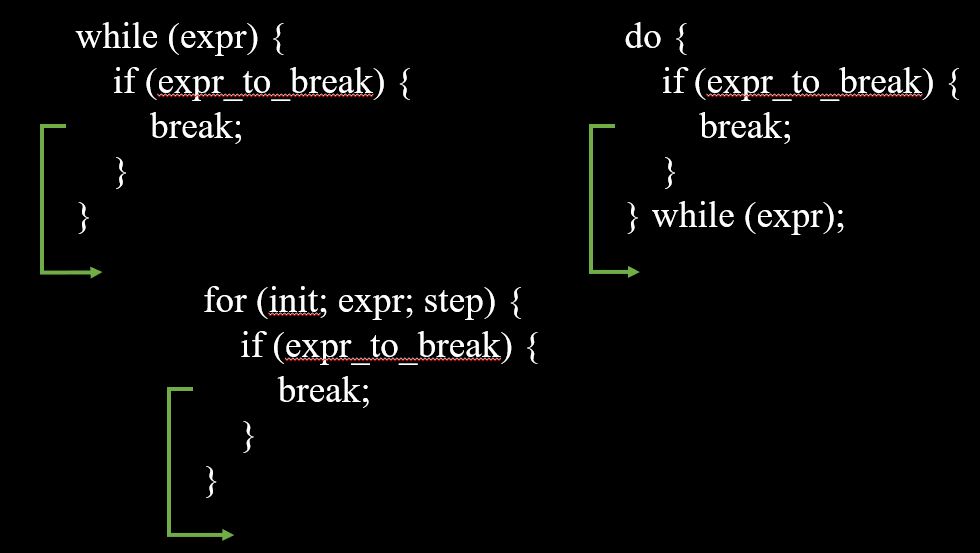
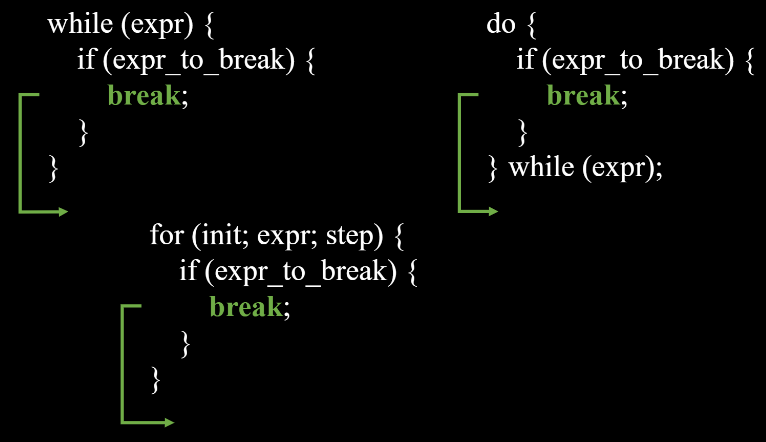
Added break/continue pngs

diff --git a/2_loops/lecture.md b/2_loops/lecture.md
@@ -20,15 +20,15 @@
 
 # Loops
 
-Циклы (loops) позволяют выполнять инструкцию столько раз сколько попросим     
+**Циклы (loops)**
+- Позволяют выполнять инструкцию столько раз сколько попросим         
+- Сокращают количество кода (Делают код более читаемым)         
 
 <img src="img/intro.png" width="500"/>               
 
 ##  1. <a name='1'></a>Loops
 
-Циклы позволяют сократить количество кода и время на программирование, а также делают код более читаемым         
 В программирование обычно можно встретить циклы **for** и **while**. В языке Си помимо них еще есть **do/while**                  
-
 
 ###  1.1. <a name='1.1'></a>while
 
@@ -147,9 +147,9 @@ printf("\n");
 
 ####  1.4.1. <a name='1.4.1'></a>break
 
-С помощью break и какого-нибудь условия мы можем остановить цикл раньше условия выхода самого цикла.            
+С помощью break и какого-нибудь условия мы можем остановить цикл раньше условия выхода самого цикла.     
 
-![alt text](img/break.png)
+![alt text](img/break.png)           
 
 Пример [break.c](https://github.com/kruffka/C-Programming/blob/2025-2026/2_loops/src/break.c) с циклом while:        
 ```c
@@ -177,6 +177,8 @@ i = 4
 ####  1.4.2. <a name='1.4.2'></a>continue
 
 Если попадается инструкция **continue**, то мы сразу прыгаем на следующую **итерацию цикла** и проверку **условия выхода**.         
+
+![alt text](img/continue.png)                
 
 Обычно его используют для пропуска **итерации цикла**, например [continue.c](https://github.com/kruffka/C-Programming/blob/2025-2026/2_loops/src/continue.c) и цикл for:         
 
@@ -247,13 +249,14 @@ for (int i = 1; i <= 10; i++) {
 ```
 
 <details>               
-<summary>Ответ</summary>    
-- Всего инструкций: 32            
-   - i = 1: 1               
-   - i <= 10: 11              
-   - i++: 10            
-   - a=a+i: 10                
-</details>                  
+<summary>Ответ</summary> 
+i = 1: 1      <br>         
+i <= 10: 11   <br>           
+i++: 10        <br>    
+a=a+i: 10      <br>    
+Всего инструкций: 32<br>           
+</details>                   
+<br>      
 
 **Самостоятельно:** Посчитать количество инструкций для этого for:
 ```c
@@ -267,6 +270,7 @@ for (int i = 1; i <= 5; i++) {
 <summary>Ответ</summary>    
 Всего инструкций 1 + 6 + 5 + 10 = 22           
 </details>   
+<br>    
 
 Таким образом, мы сократили количество инструкций, которое будет выполнять процессор почти на 1/3. Мы могли бы "развернуть" цикл еще больше, сделав сравнений в 4 раза меньше и т.д..
            
